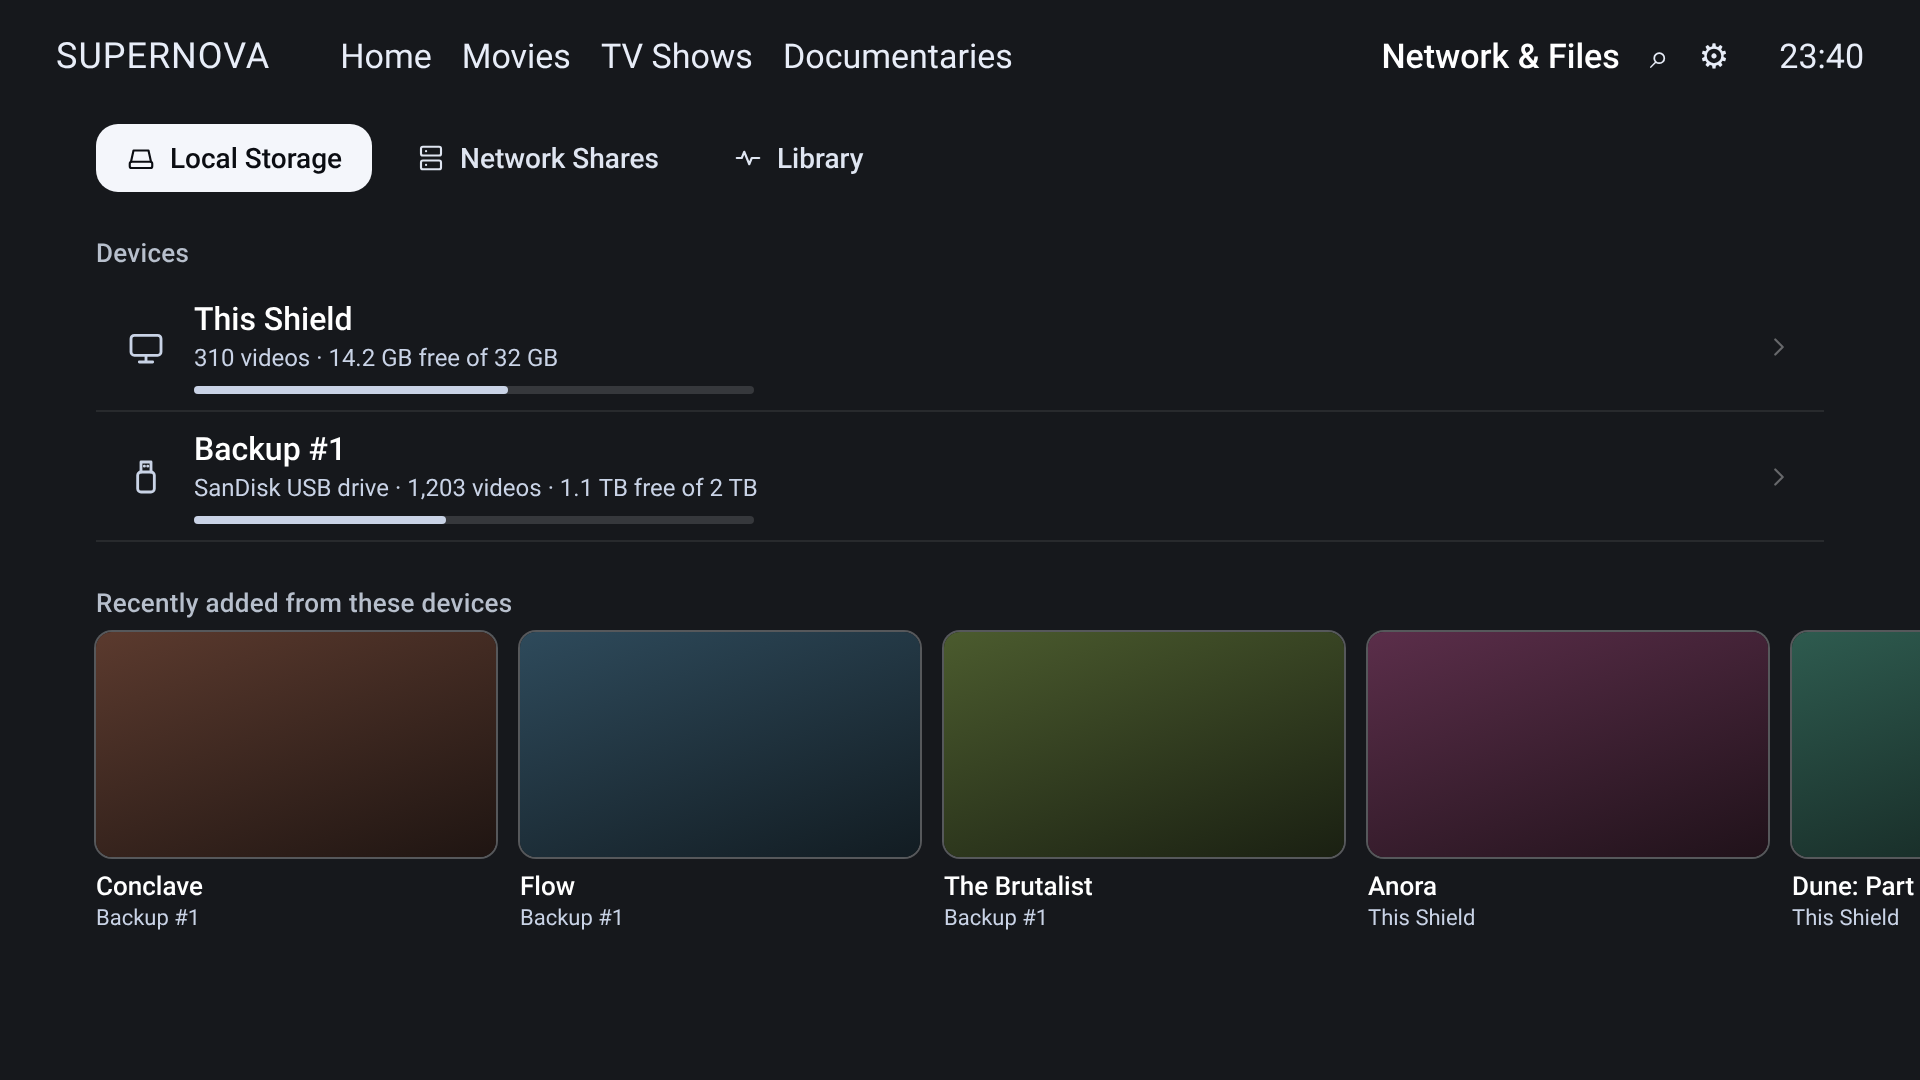
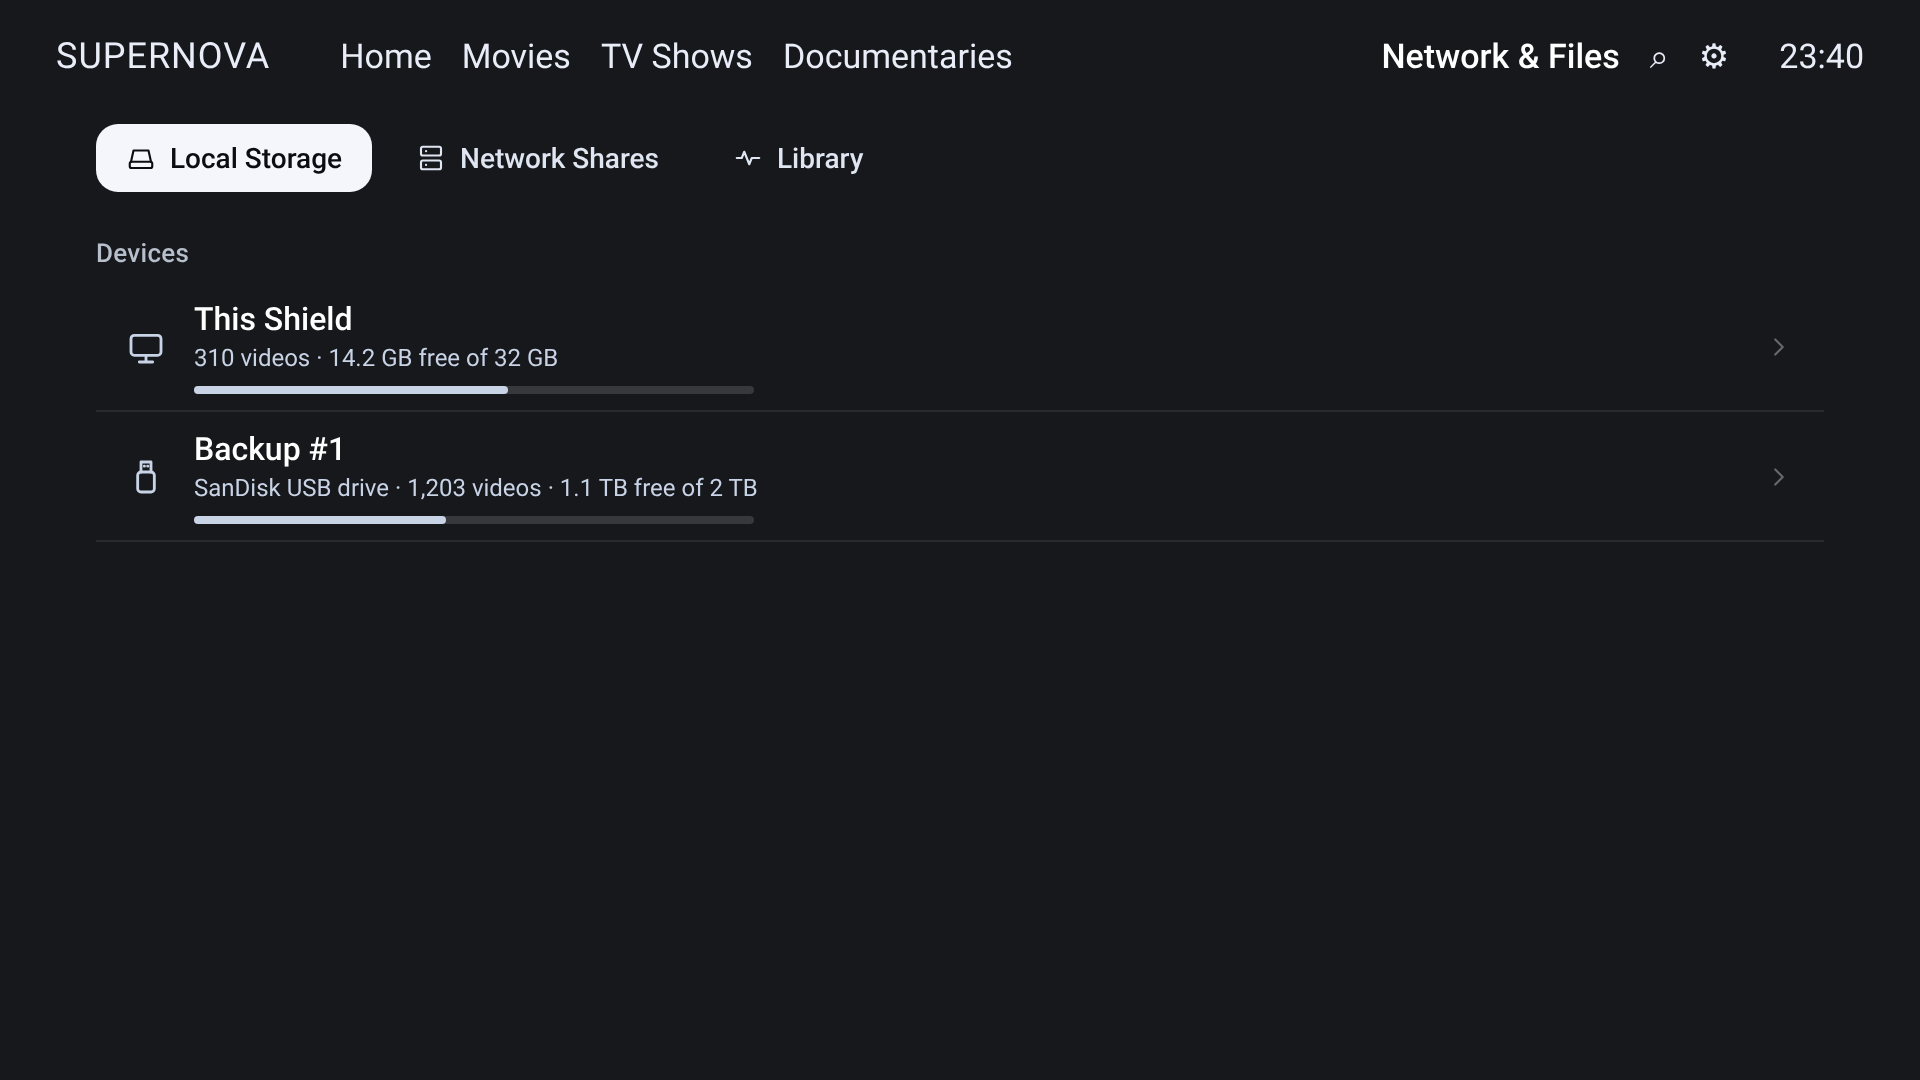
Exploring: Network & Files tabs v2 (owner notes: no recently added, toolbar and inline actions back, Add connection)
Claude-Session: https://claude.ai/code/session_01FtDZqamY6pdaUKwc7fqgiA

Changed region(s): [[0.0312, 0.55, 1.0, 0.8556]]

diff --git a/docs/design/proposals/network-files-tabs/render.js b/docs/design/proposals/network-files-tabs/render.js
@@ -22,13 +22,29 @@ const I = {
   film: '<rect x="3" y="4" width="18" height="16" rx="2"/><path d="M7 4v16M17 4v16M3 9h4M3 15h4M17 9h4M17 15h4"/>',
   pc: '<rect x="3" y="4" width="18" height="12" rx="2"/><path d="M7 20h10"/>',
   chev: '<path d="M9 6l6 6-6 6"/>',
+  grid: '<rect x="4" y="4" width="7" height="7" rx="1"/><rect x="13" y="4" width="7" height="7" rx="1"/><rect x="4" y="13" width="7" height="7" rx="1"/><rect x="13" y="13" width="7" height="7" rx="1"/>',
+  sort: '<path d="M7 4v16M3 16l4 4 4-4M17 20V4M13 8l4-4 4 4"/>',
+  filter: '<path d="M4 5h16l-6 8v6l-4-2v-4z"/>',
+  play: '<path d="M7 4l13 8-13 8z"/>',
+  info: '<circle cx="12" cy="12" r="9"/><path d="M12 11v6M12 7.5h.1"/>',
+  check: '<path d="M5 12l5 5 9-10"/>',
+  edit: '<path d="M4 20h4L19 9l-4-4L4 16z"/>',
+  test: '<circle cx="12" cy="12" r="9"/><path d="M8 12l3 3 5-6"/>',
+  remove: '<path d="M5 7h14M10 7V4h4v3M7 7l1 13h8l1-13"/>',
+  open: '<path d="M9 6l6 6-6 6"/>',
+  search: '<circle cx="11" cy="11" r="7"/><path d="M20 20l-4-4"/>',
+  globe: '<circle cx="12" cy="12" r="9"/><path d="M3 12h18M12 3c3 3.5 3 14.5 0 18M12 3c-3 3.5-3 14.5 0 18"/>',
+  lock: '<rect x="5" y="11" width="14" height="10" rx="2"/><path d="M8 11V7a4 4 0 0 1 8 0v4"/>',
+  more: '<path d="M5 12h.1M12 12h.1M19 12h.1"/>',
+  eye: '<path d="M2 12s4-7 10-7 10 7 10 7-4 7-10 7S2 12 2 12z"/><circle cx="12" cy="12" r="3"/>',
 };
 const tabs = (open, focusTab) => `<div class="tabs">${[['local', 'Local Storage'], ['shares', 'Network Shares'], ['library', 'Library']]
   .map(([k, t]) => `<span class="tab ${k === open ? 'open' : ''} ${k === focusTab ? 'focus' : ''}">${icon(I[k], 30)}${t}</span>`).join('')}</div>`;
 const bar = (used, total) => `<div class="bar"><i style="width:${Math.round(used / total * 100)}%"></i></div>`;
 const row = (ic, name, line, right, focus, extra = '') => `<div class="row ${focus ? 'focus' : ''}">
   <span class="ri">${icon(I[ic], 40)}</span><div class="rt"><div class="rn">${name}</div><div class="rl">${line}</div>${extra}</div>
-  <div class="rr">${right}</div><span class="rc">${icon(I.chev, 30)}</span></div>`;
+  <div class="rr">${right}</div>${right.includes('class="acts"') ? '' : `<span class="rc">${icon(I.chev, 30)}</span>`}</div>`;
+const acts = list => `<span class="acts">${list.map(([ic, t]) => `<span class="ab">${icon(I[ic], 26)}${t}</span>`).join('')}</span>`;
 const dot = (c, t) => `<span class="st"><i style="background:${c}"></i>${t}</span>`;
 const art = [['#5b3a2e', '#1f1512'], ['#2e4a5b', '#121c22'], ['#4b5b2e', '#1a2012'], ['#5b2e4a', '#20121a'], ['#2e5b4f', '#12201d']];
 const titles = ['Conclave', 'Flow', 'The Brutalist', 'Anora', 'Dune: Part Two'];
@@ -37,18 +53,42 @@ const local = `${nav}<div class="page">${tabs('local', 'local')}
 <div class="sec">Devices</div>
 ${row('tv', 'This Shield', '310 videos · 14.2 GB free of 32 GB', '', false, bar(17.8, 32))}
 ${row('usb', 'Backup #1', 'SanDisk USB drive · 1,203 videos · 1.1 TB free of 2 TB', '', false, bar(0.9, 2))}
-<div class="sec">Recently added from these devices</div>
-<div class="cards">${titles.map((t, i) => `<div class="cw"><div class="card" style="background:linear-gradient(160deg,${art[i][0]},${art[i][1]})"></div><div class="ct">${t}</div><div class="cl">${i < 3 ? 'Backup #1' : 'This Shield'}</div></div>`).join('')}</div>
 </div>`;
 
 const shares = `${nav}<div class="page">${tabs('shares', '')}
 <div class="sech"><div class="sec">Your connections</div><span class="b">${icon(I.plus, 28)}Add connection</span></div>
-${row('cloud', 'Put.io', 'Signed in · 1.2 TB of 2 TB used · 904 videos in your library', dot('#5fd38d', 'Up to date · checked 2 min ago'), true)}
-${row('shares', 'Living-room NAS', 'SMB · 3 folders in your library · 512 videos', dot('#5fd38d', 'Reachable'), false)}
+${row('cloud', 'Put.io · heretostream', '98.9 GB of 107 GB used · library sync automatic, last 3 hours ago', dot('#5fd38d', 'Reachable'), false)}
+${row('shares', 'Living-room NAS', 'SMB · 3 folders in your library · 512 videos', acts([['open', 'Open'], ['edit', 'Edit'], ['test', 'Test'], ['remove', 'Remove']]), true)}
 ${row('pc', 'Office PC', 'SFTP · not in your library', dot('#f2b544', 'Not reachable · last seen yesterday'), false)}
 <div class="sec">Found on your network</div>
 ${row('pc', 'DESKTOP-7Q', 'SMB · not added yet', '<span class="hint">Add</span>', false)}
 </div>`;
+
+const types = `${nav}<div class="page">${tabs('shares', '')}
+<div class="crumbs">Network Shares <b>›</b> <span>Add a connection</span></div>
+<div class="sec first">Recommended for you</div>
+${row('cloud', 'Put.io', 'Sign in with your Put.io account · browsing, library sync and search in one', '<span class="ok">Already connected</span>', false)}
+<div class="sec">On your home network</div>
+${row('pc', 'A computer or NAS', 'Windows, Mac, Linux or a NAS (Synology, QNAP…) · Supernova finds them for you', acts([['search', 'Find on my network'], ['plus', 'Enter address']]), true)}
+<div class="sec">On the internet</div>
+${row('globe', 'A WebDAV server', 'Cloud storage and servers that offer WebDAV (secure HTTPS)', '', false)}
+${row('lock', 'An SFTP server', 'A server you reach over SSH', '', false)}
+${row('more', 'More types', 'FTP, FTP with TLS, and plain (unencrypted) WebDAV', '', false)}
+</div>`;
+
+const field = (l, v, dim, eye) => `<div class="fld"><span class="fl">${l}</span><span class="fv ${dim ? 'dim' : ''}">${v}</span>${eye ? `<span class="fe">${icon(I.eye, 30)}</span>` : ''}</div>`;
+const form = `${nav}<div class="page">${tabs('shares', '')}
+<div class="crumbs">Network Shares <b>›</b> Add a connection <b>›</b> <span>WebDAV server</span></div>
+<div class="two form">
+<div class="col">
+${field('Name', 'Put.io Films')}${field('Address', 'webdav.put.io')}${field('Port', '443 · default for HTTPS', true)}
+${field('Folder', '/Films')}${field('Username', 'heretostream')}${field('Password', '••••••••••••', false, true)}
+<div class="kv"><span>Remember password</span><span class="sw on"><i></i></span></div>
+<div class="btnrow"><span class="b focus">${icon(I.test, 28)}Test connection</span><span class="b">${icon(I.chev, 28)}Save and browse</span></div>
+</div>
+<div class="col"><div class="rn">Test connection</div><div class="rl p">Checks the address and password without saving anything.</div>
+<div class="rn gap">Tips</div><div class="rl p">Port and Folder are optional. For Put.io use <b>webdav.put.io</b> and your Put.io username.</div></div>
+</div></div>`;
 
 const library = `${nav}<div class="page">${tabs('library', '')}
 <div class="two">
@@ -68,14 +108,18 @@ ${row('film', "Couldn't be read", 'Files Supernova could not open', '<span class
 ${row('library', 'Not matched', 'Videos without a film or show', '<span class="count">14</span>', false)}
 </div></div></div>`;
 
-const files = [['folder', '4K', '86 videos', ''], ['folder', 'Classics', '124 videos', ''],
-  ['film', 'Conclave (2024).mkv', '14.2 GB · In your library', ''], ['film', 'home-video-2019.mp4', '1.1 GB · Not in your library', '']];
-const folder = `${nav}<div class="page">${tabs('local', '')}
-<div class="crumbs">Local Storage <b>›</b> Backup #1 <b>›</b> <span>Films</span></div>
-${files.map(([ic, n, l], i) => row(ic, n, l, '', i === 2)).join('')}
-<div class="foot">Back returns to Backup #1 · the tabs stay at the top</div>
+const files = [['folder', '4K', 'Folder · in your library', ''], ['folder', 'Classics', 'Folder · in your library', ''],
+  ['film', 'Conclave (2024).mkv', '2024 · in your library · 14.2 GB', ''], ['film', 'home-video-2019.mp4', 'Not added · 1.1 GB', ''],
+  ['film', 'Nosferatu (2024).mkv', '2024 · in your library · 18.9 GB', '']];
+const toolbar = (gridOn) => `<div class="crumbrow"><div class="crumbs">Local Storage <b>›</b> Backup #1 <b>›</b> <span>Films</span></div>
+<div class="tools"><span class="b">${icon(gridOn ? I.film : I.grid, 26)}${gridOn ? 'List' : 'Grid'}</span><span class="b">${icon(I.sort, 26)}Sort: Name</span><span class="b">${icon(I.filter, 26)}Videos only</span></div></div>`;
+const folder = `${nav}<div class="page">${tabs('local', '')}${toolbar(false)}
+${files.map(([ic, n, l], i) => row(ic, n, l, i === 2 ? acts([['play', 'Play'], ['info', 'Details'], ['check', 'Mark as watched'], ['remove', 'Exclude']]) : '', i === 2)).join('')}
 </div>`;
-
+const gtitles = ['4K', 'Classics', 'Conclave', 'home-video-2019', 'Nosferatu', 'Flow', 'Anora', 'The Brutalist', 'Dune: Part Two', 'Heat', 'Arrival', 'Gravity', 'Ex Machina', 'Sicario', 'Prisoners', 'Her'];
+const gridv = `${nav}<div class="page">${tabs('local', '')}${toolbar(true)}
+<div class="g8">${gtitles.map((t, i) => `<div class="gc"><div class="gp ${i === 2 ? 'focus' : ''}" style="${i < 2 ? '' : `background:linear-gradient(160deg,${art[i % 5][0]},${art[i % 5][1]})`}">${i < 2 ? icon(I.folder, 60) : ''}${i >= 2 && i !== 3 ? '<i class="sd"></i>' : ''}</div><div class="gt">${t}</div><div class="gl">${i < 2 ? 'Folder' : i === 3 ? 'Not added' : '2024'}</div></div>`).join('')}</div>
+</div>`;
 const css = `${font(400)}${font(500)}*{box-sizing:border-box;margin:0}
 body{width:1920px;height:1080px;overflow:hidden;font-family:R;color:#fff;background:#16181C;position:relative}
 .nav{position:absolute;left:56px;right:56px;top:28px;height:56px;display:flex;align-items:center;gap:30px;font-size:34px;color:#e8edf8}
@@ -104,11 +148,24 @@ body{width:1920px;height:1080px;overflow:hidden;font-family:R;color:#fff;backgro
 .count{min-width:56px;height:56px;padding:0 16px;border-radius:28px;background:rgba(255,255,255,.12);display:inline-flex;align-items:center;justify-content:center;font-size:28px;font-weight:500}
 .count.amber{background:#F2B544;color:#111}
 .crumbs{font-size:30px;color:#C9D3E6;margin:44px 0 18px}.crumbs b{color:#7d8696;margin:0 10px;font-weight:400}.crumbs span{color:#fff;font-weight:500}
-.foot{position:absolute;bottom:10px;font-size:22px;color:#7d8696;display:none}`;
+.acts{display:flex;gap:12px}.ab{height:56px;padding:0 22px;border-radius:18px;background:#2a2d33;color:#fff;display:inline-flex;align-items:center;gap:10px;font-size:24px;font-weight:500}
+.row.focus .ab{background:#dde1ea;color:#0B0D12}.row.focus .ab:first-child{background:#0B0D12;color:#fff}
+.ok{color:#5fd38d;font-size:24px}.sec.first{margin-top:10px}
+.crumbrow{display:flex;align-items:center;justify-content:space-between;margin:34px 0 14px}.crumbrow .crumbs{margin:0}
+.tools{display:flex;gap:12px}.tools .b{height:58px;font-size:24px}
+.g8{display:grid;grid-template-columns:repeat(8,1fr);gap:26px 22px;margin-top:10px}
+.gp{height:118px;border-radius:14px;box-shadow:0 0 0 2px rgba(255,255,255,.28);display:flex;align-items:center;justify-content:center;color:#c9d3e6;position:relative}
+.gp.focus{box-shadow:0 0 0 4px #fff;transform:scale(1.06)}.sd{position:absolute;right:10px;top:10px;width:14px;height:14px;border-radius:50%;background:#5fd38d}
+.gt{font-size:22px;font-weight:500;margin-top:10px;white-space:nowrap;overflow:hidden;text-overflow:ellipsis}.gl{font-size:19px;color:#C9D3E6;margin-top:2px}
+.form{margin-top:6px}.fld{display:flex;align-items:center;height:74px;padding:0 26px;border-radius:18px;background:rgba(255,255,255,.06);margin-bottom:12px;font-size:28px}
+.fl{width:180px;color:#C9D3E6;font-size:24px}.fv{flex:1}.fv.dim{color:#8a93a3}.fe{color:#c9d3e6}
+.btnrow{display:flex;gap:16px;margin-top:20px}.p{line-height:1.45;margin-top:10px}.p b{color:#fff;font-weight:500}.gap{margin-top:40px}
+.sw{width:76px;height:40px;border-radius:20px;background:#3a3f48;position:relative}.sw i{position:absolute;top:4px;left:4px;width:32px;height:32px;border-radius:50%;background:#fff}.sw.on{background:#cfd6e2}.sw.on i{left:40px;background:#16181C}`;
 (async () => {
   const browser = await chromium.launch();
   const tab = await browser.newPage({ viewport: { width: 1920, height: 1080 } });
-  for (const [f, body] of [['01-local-storage.png', local], ['02-network-shares.png', shares], ['03-library.png', library], ['04-inside-a-folder.png', folder]]) {
+  for (const [f, body] of [['01-local-storage.png', local], ['02-network-shares.png', shares], ['03-library.png', library], ['04-inside-a-folder.png', folder],
+    ['05-folder-grid.png', gridv], ['06-add-connection.png', types], ['07-add-connection-form.png', form]]) {
     await tab.setContent(`<html><head><style>${css}</style></head><body>${body}</body></html>`, { waitUntil: 'load' });
     await tab.evaluate(() => document.fonts.ready);
     await tab.screenshot({ path: path.join(__dirname, f) });

diff --git a/docs/REVISIT_LATER.md b/docs/REVISIT_LATER.md
@@ -82,7 +82,9 @@ Items already built or scheduled are left out (see the bottom of this file).
 - **Network & Files as one page with tabs** (owner idea, 5 Nov; not tied to any version, separate from 0.156/0.157):
   no landing tiles and no panels. Tabs under the top bar: Local Storage · Network Shares (Add connection button) ·
   Library (Scan now, scanning, recent scans, Library Health). Opens on the last tab used; first visit Local
-  Storage. Folders open below the tabs with a breadcrumb. Mock-ups `docs/design/proposals/network-files-tabs/01`–`04`.
+  Storage. Folders open below the tabs with a breadcrumb, keeping Grid/List, Sort, Videos only/All files and the
+  inline actions; no "Recently added" (owner). Network Shares holds saved connections (Open, Edit, Test, Remove)
+  and Add connection, which opens in the same tab. Mock-ups `docs/design/proposals/network-files-tabs/01`–`07`.
 
 ## Parked (owner, 5 Nov 2026) — no version
 - **Supernova screensaver** (approved design, owner notes 0.155 #27, mock-ups `docs/design/proposals/settings/16`–`17`):
